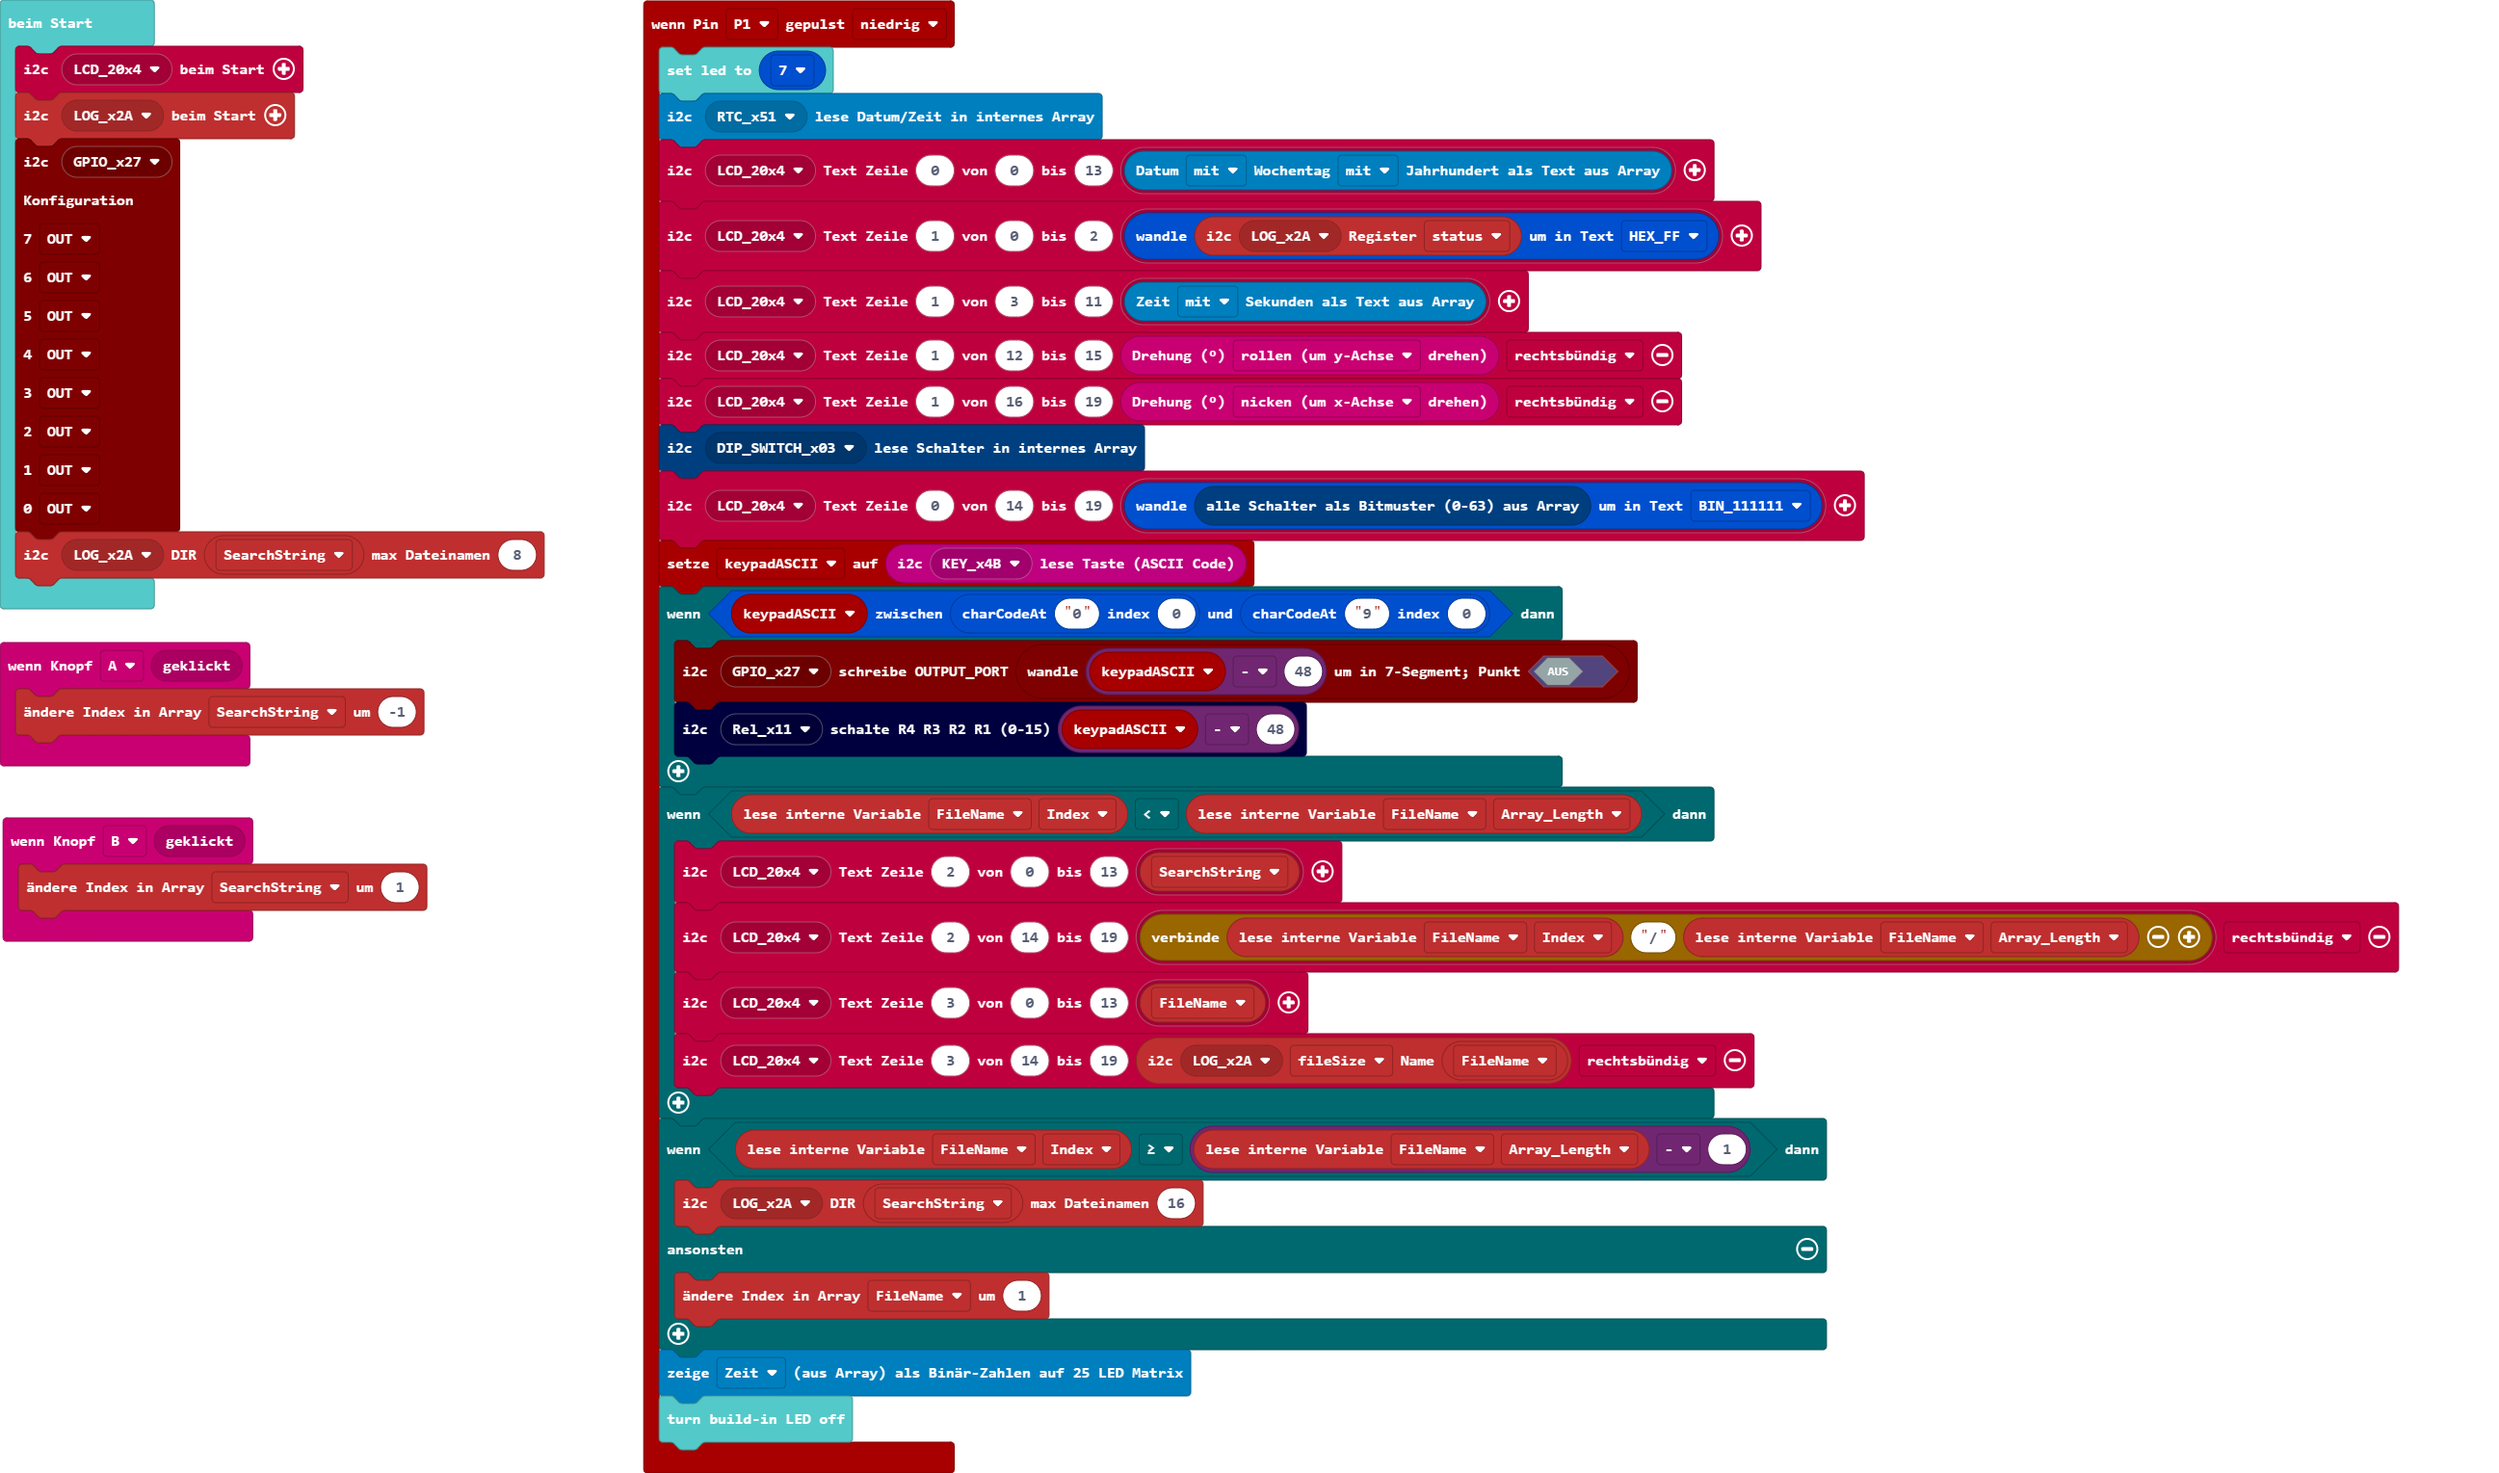
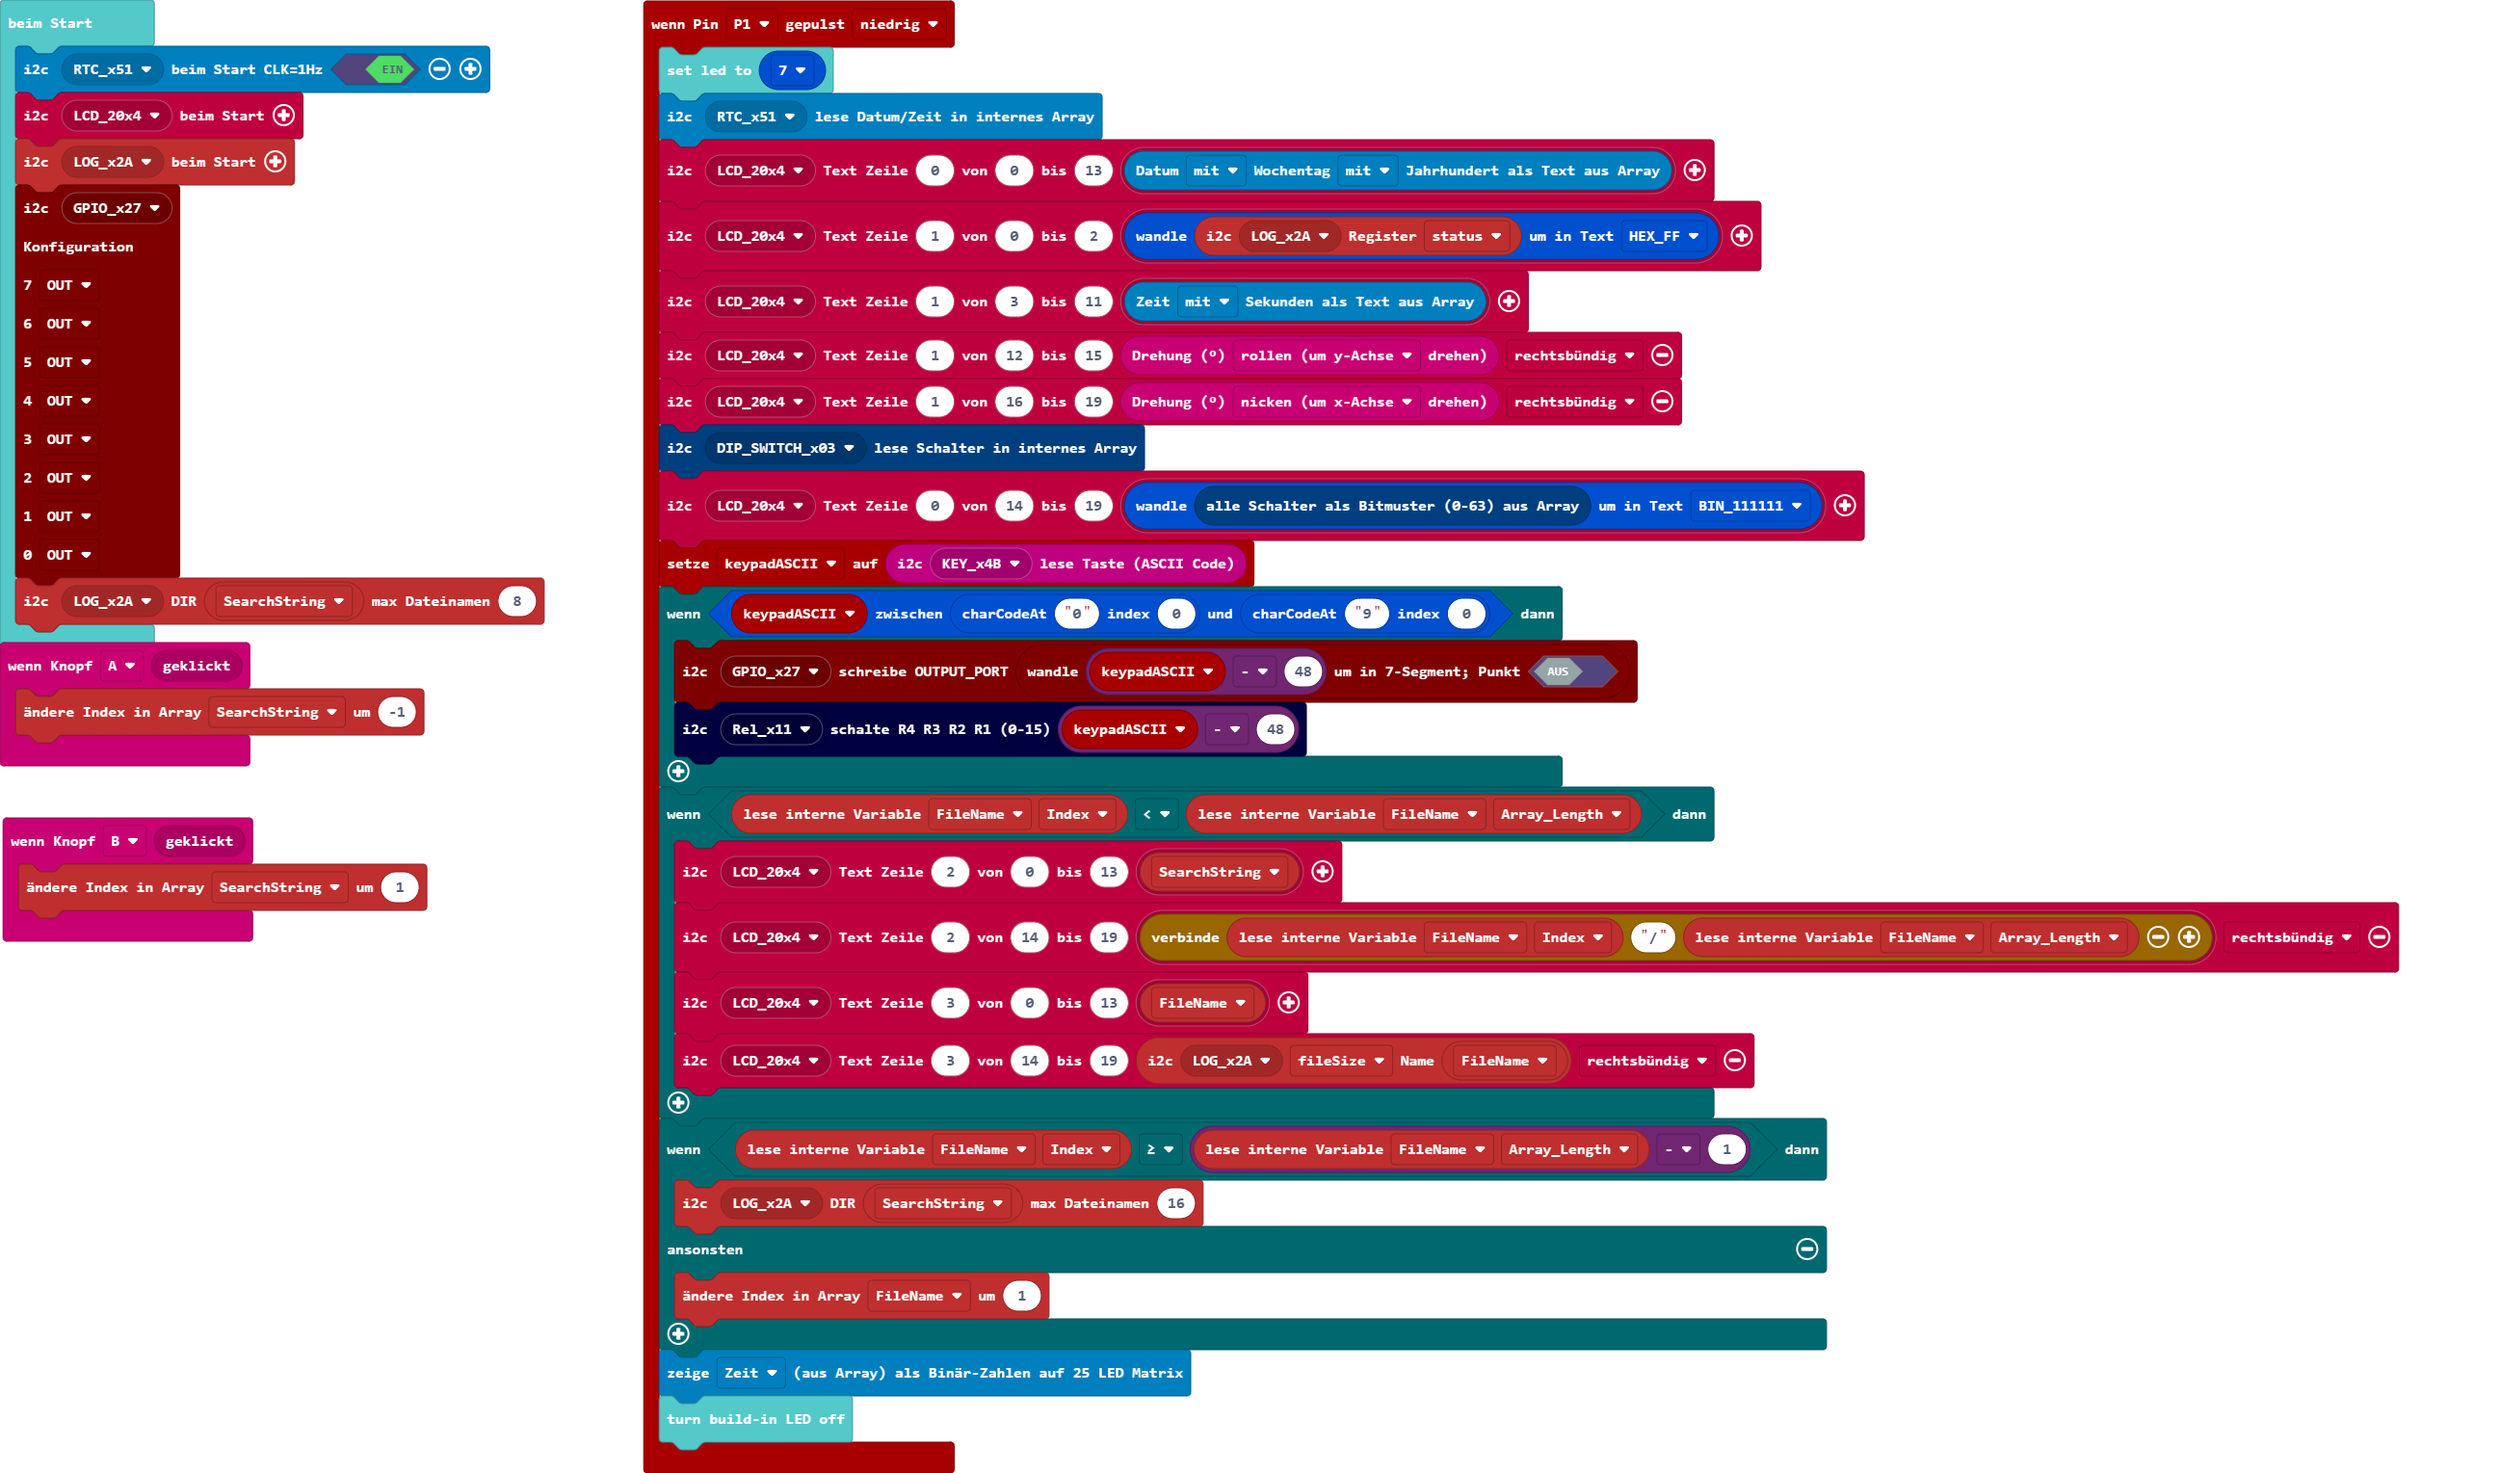
Aktualisiere pxt.json, main.blocks, main.ts

Changed region(s): [[0.0, 0.0307, 0.2186, 0.4611]]

diff --git a/main.ts b/main.ts
@@ -34,6 +34,7 @@ input.onButtonEvent(Button.B, input.buttonEventClick(), function () {
     qwiicopenlog.changeIndex(qwiicopenlog.eArray.SearchString, 1)
 })
 let keypadASCII = 0
+rtcpcf85063tp.beimStart(rtcpcf85063tp.rtcpcf85063tp_eADDR(rtcpcf85063tp.eADDR.RTC_x51), true)
 lcd20x4.initLCD(lcd20x4.lcd20x4_eADDR(lcd20x4.eADDR.LCD_20x4))
 qwiicopenlog.checkStatusRegister(qwiicopenlog.qwiicopenlog_eADDR(qwiicopenlog.eADDR.LOG_x2A))
 qwiicgpio.setMode(
